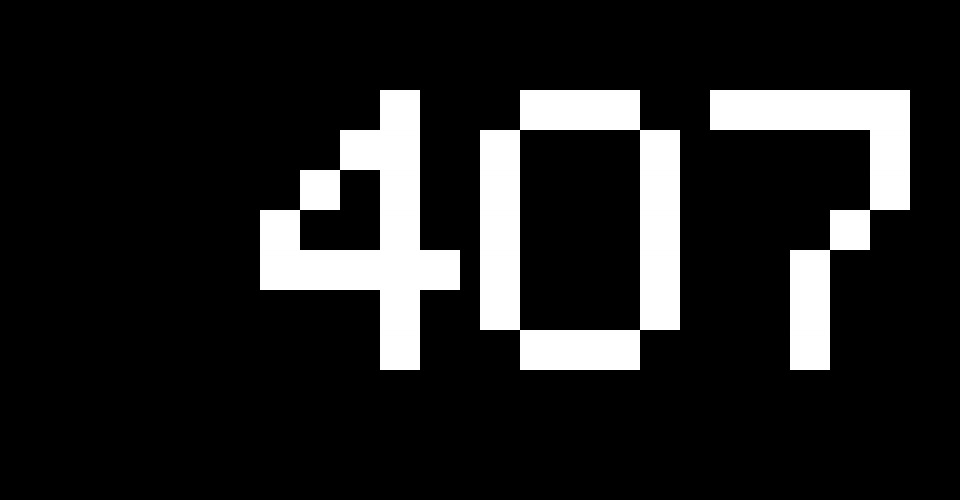
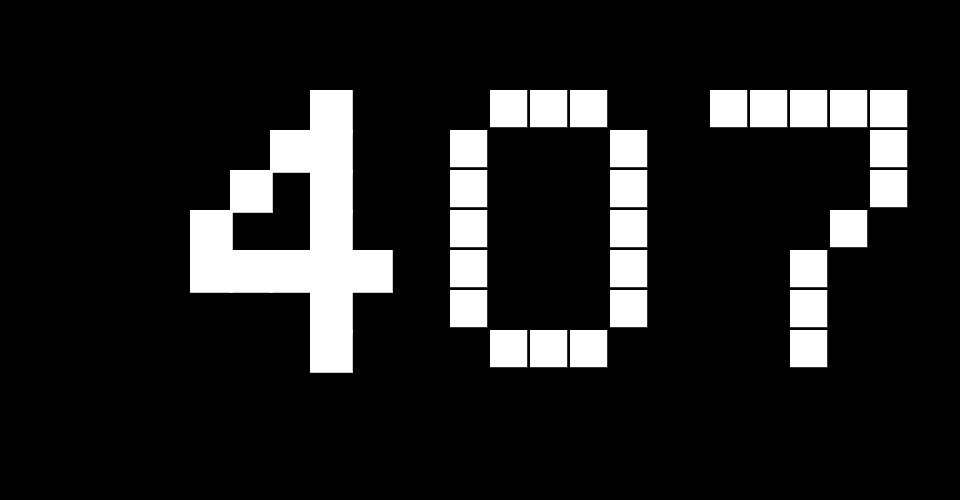
Updated the clock.js and images

diff --git a/clock1.js b/clock1.js
@@ -2,13 +2,12 @@
 //2018
 const CANVAS_WIDTH = 960;
 const CANVAS_HEIGHT = 500;
-angleMode=degrees;
-
 
 var sx;
 var sy;
-var t;
-var s;
+var t = 0;
+var ss;
+var ssf;
 //Creating a var for time, s for scale, and standard xy
 
 
@@ -16,22 +15,21 @@ function setup () {
   // create the drawing canvas, save the canvas element
   let main_canvas = createCanvas(CANVAS_WIDTH, CANVAS_HEIGHT);
   main_canvas.parent('canvasContainer');
-
-  // you can optionally add your own code here if you also have setup code
+  angleMode(DEGREES);
 }
 
-// Update this function to draw you own maeda clock
+
 function draw () {
   background(0); // Black background
   strokeWeight(0); // Stroke weight to 0 pixels
 
+  ss = (sin(t)+1)*40
+  ssf = ((sin(-t)+1)*40)
 
-push();
-scale(sin(t));
   four();
   zero();
   seven();
-pop();
+
 
 
   t = t +1;
@@ -48,34 +46,36 @@ function keyTyped() {
 }
 
 //Creating a function for the standard sized blocks for the numbers
-//Will start as rect to get positioning right, will be changed into circles
+//Second version is for the number four, so they can alternate in growth
 function stdsq (sx,sy) {
-  rect(sx,sy,40,40);
+  rect(sx,sy,ss,ss);
 }
 
+function stdsqf (sx,sy) {
+  rect(sx,sy,ssf,ssf);
+}
 
 function four (){
 //Creates the number 4
 
 //Creating vars for use in function
-var xst = 380;
+var xst = 310;
 var yst = 50;
 var st = 40;
 
-scale();
 
 
 //Vertical bar
   for(i=1;i<=7;i++){
-    stdsq (xst,(yst+(i*st)));
+    stdsqf (xst,(yst+(i*st)));
   }
 //Diag bar
   for (i=1; i<=3; i++){
-    stdsq ((xst-(st*i)),(40+yst+(st*i)));
+    stdsqf ((xst-(st*i)),(40+yst+(st*i)));
   }
 //Horizontal bar
   for (i=1; i<=5; i++){
-    stdsq (((xst-160)+(st*i)),(yst+200));
+    stdsqf (((xst-160)+(st*i)),(yst+200));
   }
 
 
@@ -86,10 +86,11 @@ function zero (){
 //Creates the number 0
 
 //Creating vars for use in function
-var xst = 480;
+var xst = 450;
 var yst = 90;
 var st = 40;
 
+beginShape();
 //Top bar
   for (i=1; i<=3; i++){
       stdsq (((xst)+(st*i)), yst);
@@ -101,18 +102,15 @@ var st = 40;
   }
 
 //Left vertical bar
-  stdsq (xst, (yst+40));
-  stdsq (xst, (yst+80));
-  stdsq (xst, (yst+120));
-  stdsq (xst, (yst+160));
-  stdsq (xst, (yst+200));
+   for (i=1; i<=5; i++){
+    stdsq (xst, (yst+(st*i)));
+  }
 //Right vertical bar
-  stdsq ((xst+160), (yst+40));
-  stdsq ((xst+160), (yst+80));
-  stdsq ((xst+160), (yst+120));
-  stdsq ((xst+160), (yst+160));
-  stdsq ((xst+160), (yst+200));
+ for (i=1; i<=5; i++){
+    stdsq ((xst+160), (yst+(st*i)));
+  }
 }
+endShape();
 
 function seven (){
 //Creates the number 7
